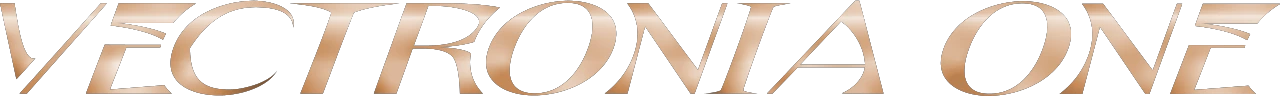
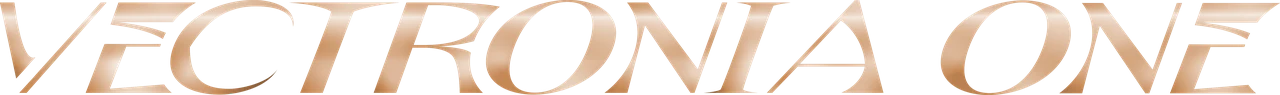
Use the real cut-out mark and wordmark; make the home button glow
Both brand files finally arrived as PSDs carrying the artwork alone on a
transparent ground, which replaces the stand-in I had masked out of the
combined logo. The mark's metallic gradient survives intact this time --
the Illustrator export had flattened it into 26 embedded images.

Silhouettes agree to an IoU of 0.985 and the trimmed aspect matches the
old renditions to within 0.2%, so the hero's positioning proportions,
taken from heroStart.psd, still hold: the cut-out lands within 0.7px of
the photograph at both 1440 and 390. The wordmark's intrinsic size was
also wrong before -- 1728x128 for a file that was 1921x144.

scripts/build-brand.py regenerates the renditions, trimming each to its
painted bounds so a re-export cannot introduce invisible padding and
shift the hero. It follows build-artwork.py: sources stay out of the
repository, renditions are committed.

The home button drops its navy pill, ring and backdrop blur -- the mark
now stands on the page with nothing behind it. Reaching for it lights a
soft circular glow, a radial gradient that fades to nothing well inside
its own box so there is no edge to see at any size, and no filter pass to
run. Keyboard focus lights the same glow and keeps the amber outline,
since a glow alone is too weak to serve as the only focus indicator.

Verified in Chromium at 1440 and 390: transparent at rest with no ring or
backdrop filter, glow on hover and on :focus-visible with the 2px amber
[…]

diff --git a/src/components/ui/brand-drawer.tsx b/src/components/ui/brand-drawer.tsx
@@ -105,20 +105,41 @@ export function BrandDrawer({ revealWith, links, className }: BrandDrawerProps) 
         aria-expanded={open}
         aria-controls={panelId}
         aria-label={open ? "Menü schließen" : "Menü öffnen"}
-        // Slides in from the left edge when it is first needed.
+        // Slides in from the left edge when it is first needed. The mark stands
+        // on the page with nothing behind it; only the glow answers the pointer.
         className={cn(
-          "m-3 flex cursor-pointer items-center justify-center rounded-full bg-brand-navy/70 p-2.5 ring-1 ring-white/15 backdrop-blur-sm",
+          "group relative m-3 flex cursor-pointer items-center justify-center rounded-full p-2.5",
           "transition-[transform,opacity] duration-500 ease-[var(--ease-out-expo)] motion-reduce:transition-none",
-          "hover:bg-brand-navy/90 focus-visible:outline-2 focus-visible:outline-offset-2 focus-visible:outline-brand-amber",
+          "focus-visible:outline-2 focus-visible:outline-offset-4 focus-visible:outline-brand-amber",
           revealed ? "translate-x-0 opacity-100" : "pointer-events-none -translate-x-[130%] opacity-0",
         )}
       >
-        {/* eslint-disable-next-line @next/next/no-img-element -- pre-rendered renditions of the Illustrator mark */}
+        {/*
+         * The glow. A radial gradient rather than a blurred disc: it fades to
+         * nothing well inside its own box, so there is no edge to see at any
+         * size, and it costs no filter pass. It sits under the mark and only
+         * appears once the pointer or the keyboard is on the button.
+         */}
+        <span
+          aria-hidden
+          className={cn(
+            "pointer-events-none absolute -inset-2 -z-10 rounded-full opacity-0",
+            "transition-opacity duration-500 ease-[var(--ease-out-expo)] motion-reduce:transition-none",
+            "group-hover:opacity-100 group-focus-visible:opacity-100",
+          )}
+          style={{
+            background:
+              "radial-gradient(circle closest-side, color-mix(in srgb, var(--color-brand-amber) 40%, transparent) 0%, color-mix(in srgb, var(--color-brand-amber) 24%, transparent) 40%, color-mix(in srgb, var(--color-brand-amber) 8%, transparent) 66%, transparent 100%)",
+          }}
+        />
+        {/* eslint-disable-next-line @next/next/no-img-element -- pre-rendered renditions of the mark, cut out in Photoshop */}
         <img
           src="/brand/vectronia-mark-320.webp"
+          srcSet="/brand/vectronia-mark-320.webp 320w, /brand/vectronia-mark-640.webp 640w"
+          sizes="40px"
           alt=""
           width={320}
-          height={318}
+          height={317}
           decoding="async"
           className="h-9 w-9 object-contain md:h-10 md:w-10"
         />

diff --git a/src/app/page.tsx b/src/app/page.tsx
@@ -66,10 +66,10 @@ export default function Home() {
         posterSrc={heroArtwork.src}
         posterSrcSet={heroArtwork.srcSet}
         logo={
-          // eslint-disable-next-line @next/next/no-img-element -- pre-rendered renditions of the Illustrator mark
+          // eslint-disable-next-line @next/next/no-img-element -- pre-rendered renditions of the mark, cut out in Photoshop
           <img
             src="/brand/vectronia-mark-960.webp"
-            srcSet="/brand/vectronia-mark-640.webp 640w, /brand/vectronia-mark-960.webp 960w"
+            srcSet="/brand/vectronia-mark-640.webp 640w, /brand/vectronia-mark-960.webp 960w, /brand/vectronia-mark-1440.webp 1440w"
             sizes="(max-width: 768px) 58vh, 114vh"
             alt=""
             width={960}
@@ -80,14 +80,14 @@ export default function Home() {
           />
         }
         wordmark={
-          // eslint-disable-next-line @next/next/no-img-element -- pre-rendered renditions of the Illustrator wordmark
+          // eslint-disable-next-line @next/next/no-img-element -- pre-rendered renditions of the wordmark, cut out in Photoshop
           <img
             src="/brand/vectronia-one-1920.webp"
             srcSet={WORDMARK_WIDTHS.map((w) => `/brand/vectronia-one-${w}.webp ${w}w`).join(", ")}
             sizes="(max-width: 768px) 86vw, 65vw"
             alt=""
-            width={1728}
-            height={128}
+            width={1920}
+            height={142}
             decoding="async"
             className="h-auto w-full"
           />

diff --git a/scripts/build-brand.py b/scripts/build-brand.py
@@ -1,0 +1,76 @@
+#!/usr/bin/env python3
+"""Turn the brand PSDs into the transparent WebP renditions the site uses.
+
+Like `build-artwork.py` this is an authoring step: the PSDs stay outside the
+repository, the renditions are committed. Re-run it when the logo changes.
+
+    pip install pillow psd-tools
+    python3 scripts/build-brand.py --mark LogoRose_2.psd --wordmark TypoRose.psd
+
+Both files must carry the artwork alone on a transparent ground — the mark
+without the wordmark, the wordmark without the mark. Each is trimmed to its
+painted bounds before scaling, so the renditions have no invisible padding and
+the hero's positioning proportions stay valid across a re-export.
+"""
+
+from __future__ import annotations
+
+import argparse
+import sys
+from pathlib import Path
+
+try:
+    import numpy as np
+    from PIL import Image
+    from psd_tools import PSDImage
+except ModuleNotFoundError:  # pragma: no cover - dependency hint only
+    sys.exit("Pillow, numpy and psd-tools are required: pip install pillow numpy psd-tools")
+
+Image.MAX_IMAGE_PIXELS = None
+
+OUT_DIR = Path(__file__).resolve().parent.parent / "public" / "brand"
+QUALITY = 90
+# The mark is shown from a 36px drawer tab up to full viewport height in the
+# hero; the wordmark spans about two thirds of the viewport width.
+WIDTHS = {"vectronia-mark": (320, 640, 960, 1440), "vectronia-one": (640, 1280, 1920, 2560)}
+
+# Alpha at or below this counts as background: PSD edges carry a few stray
+# values that would otherwise leave a pixel of padding after the trim.
+ALPHA_FLOOR = 8
+
+
+def trimmed(path: Path) -> Image.Image:
+    image = PSDImage.open(path).composite().convert("RGBA")
+    alpha = np.asarray(image)[..., 3]
+    ys, xs = np.nonzero(alpha > ALPHA_FLOOR)
+    if not len(ys):
+        sys.exit(f"{path.name} is fully transparent — is the background layer still visible?")
+    return image.crop((int(xs.min()), int(ys.min()), int(xs.max()) + 1, int(ys.max()) + 1))
+
+
+def render(path: Path, name: str) -> None:
+    image = trimmed(path)
+    for width in WIDTHS[name]:
+        height = round(width * image.height / image.width)
+        resized = image.resize((width, height), Image.LANCZOS)
+        # `exact` keeps the colour of fully transparent pixels instead of
+        # letting the encoder invent one, which otherwise haloes the edges.
+        resized.save(OUT_DIR / f"{name}-{width}.webp", "WEBP", quality=QUALITY, method=6, exact=True)
+    print(f"  {name:<16} {image.width}x{image.height} (trimmed, aspect {image.width / image.height:.4f})"
+          f"  ->  {len(WIDTHS[name])} renditions")
+
+
+def main() -> int:
+    parser = argparse.ArgumentParser()
+    parser.add_argument("--mark", required=True, help="PSD holding the mark alone")
+    parser.add_argument("--wordmark", required=True, help="PSD holding the wordmark alone")
+    args = parser.parse_args()
+
+    OUT_DIR.mkdir(parents=True, exist_ok=True)
+    render(Path(args.mark).expanduser(), "vectronia-mark")
+    render(Path(args.wordmark).expanduser(), "vectronia-one")
+    return 0
+
+
+if __name__ == "__main__":
+    raise SystemExit(main())
